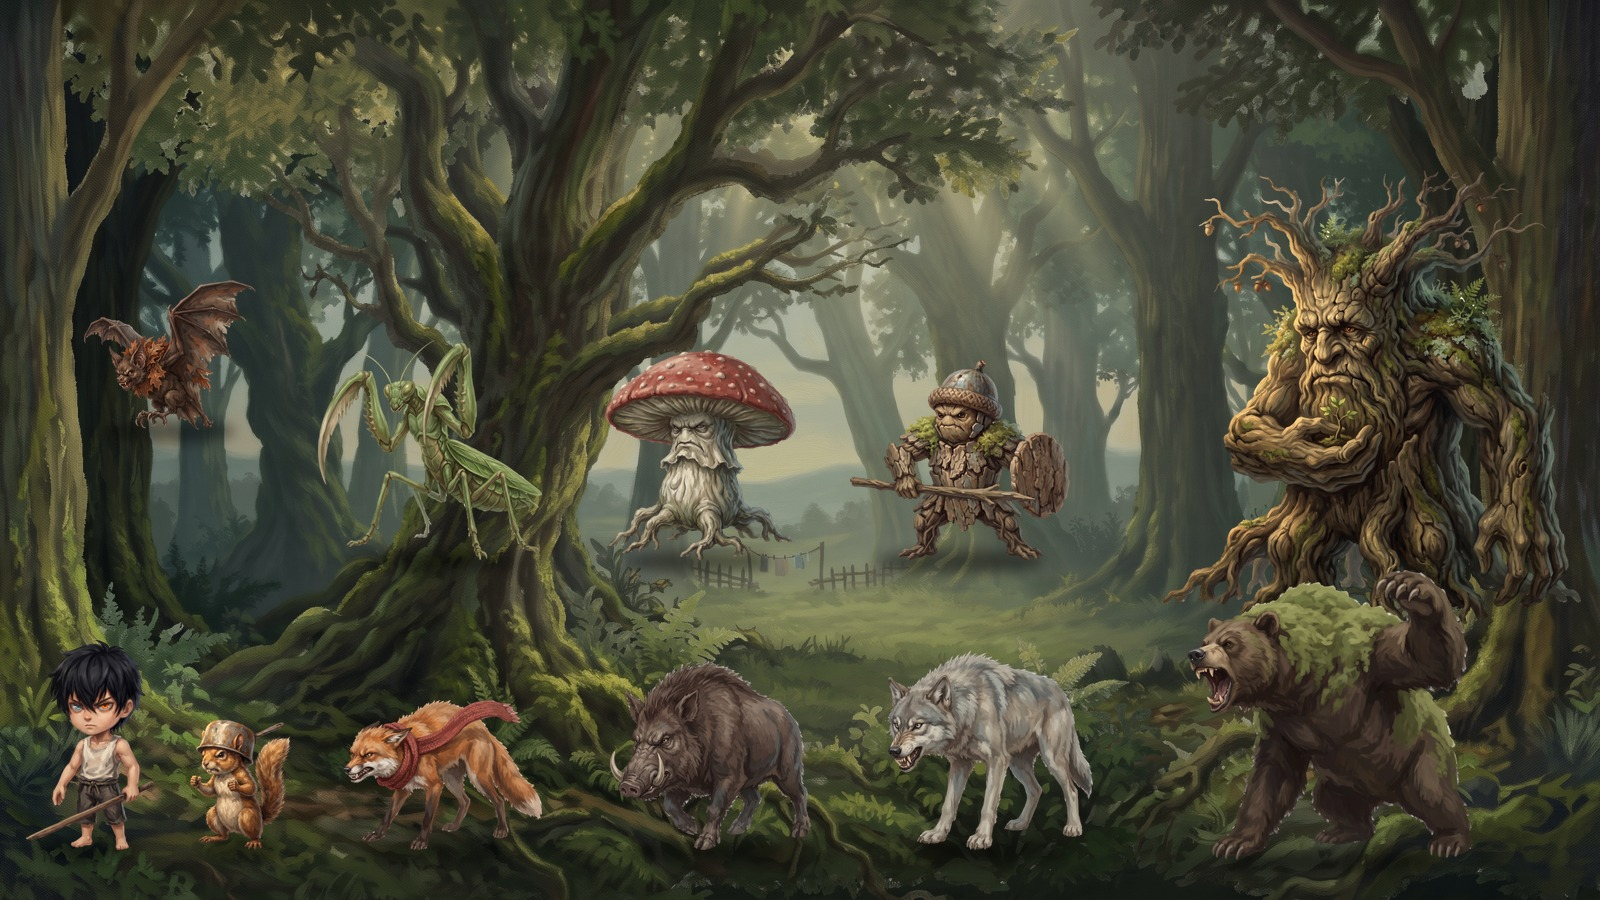
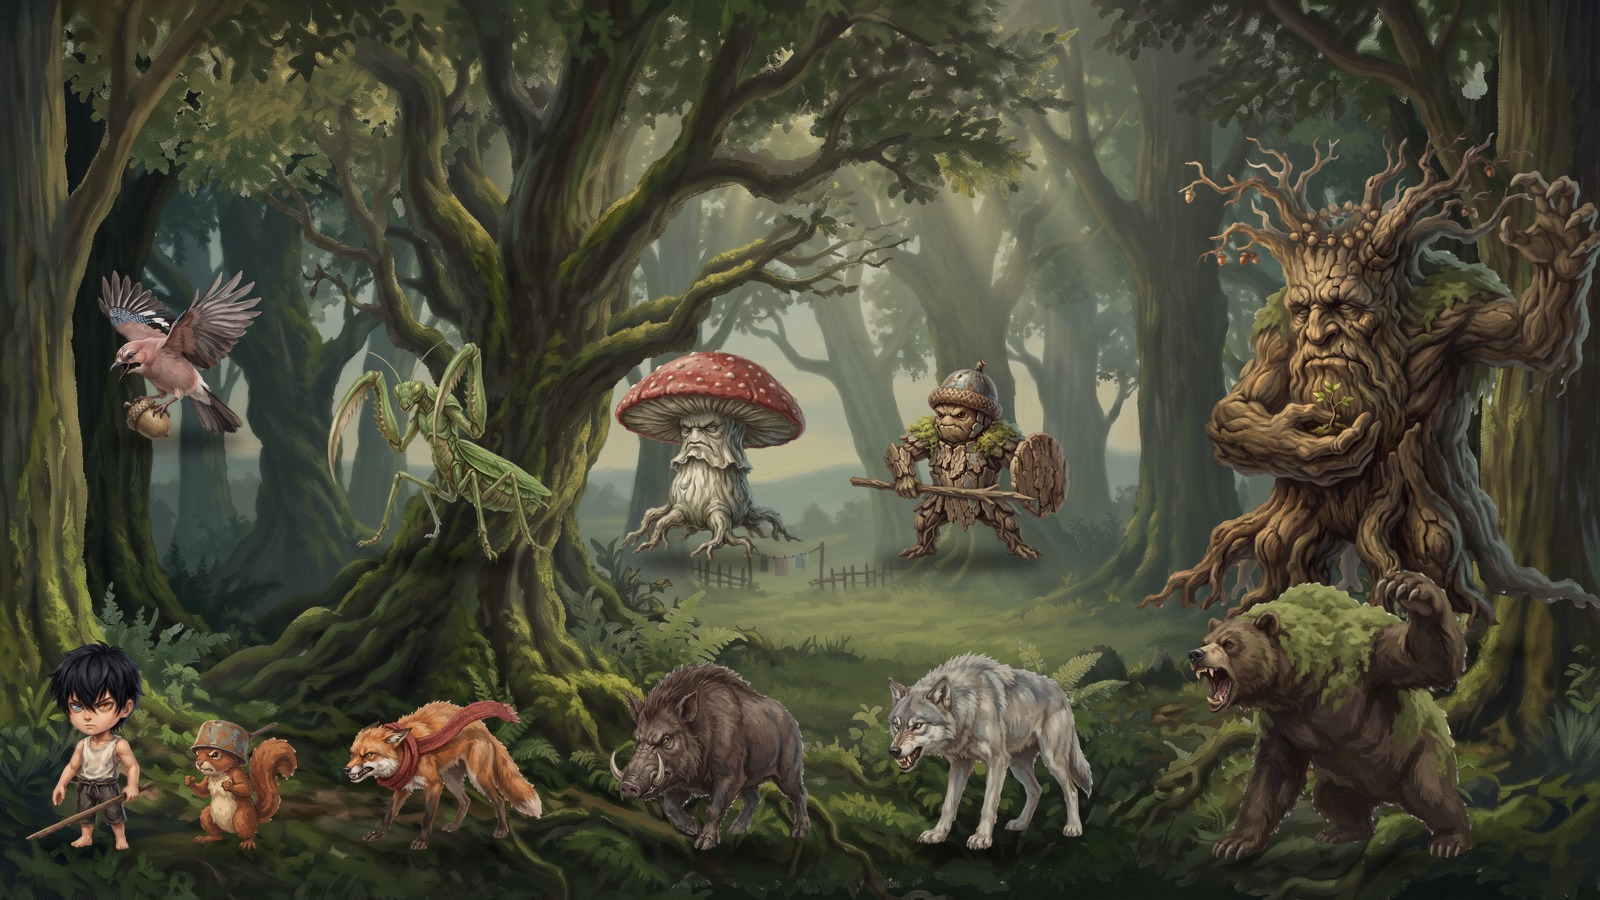
1장: 박쥐를 도토리 어치로 바꾸고 다람쥐와 그룸을 새 기준으로 다시 뽑았다
Claude-Session: https://claude.ai/code/session_019ctizXgKMq2Zc4rqnxPXRD

diff --git a/잊혀진 기사 키우기 세계관/몬스터 도감.md b/잊혀진 기사 키우기 세계관/몬스터 도감.md
@@ -21,7 +21,7 @@
 | 스테이지 | 몬스터 | 도감 글 | 전리품 | 전리품 설명 | 주된 색 |
 |---|---|---|---|---|---|
 | 1-1 | 냄비 쓴 다람쥐 | 가장 약하다. 냄비를 투구처럼 쓰고 표정만 사납다. 이 게임의 얼굴. | 찌그러진 냄비 | 누군가 저녁마다 국을 끓이던 냄비다. 바닥에 눌어붙은 자국이 아직 남아 있다. | 붉은 갈색 털, 녹슨 냄비 |
-| 1-2 | 낙엽 망토 박쥐 | 낙엽을 망토처럼 두르고 날아다닌다. 등불을 보면 덮친다. | 낙엽 망토 | 아이가 소꿉놀이하며 엮은 망토. 솔잎으로 꿰맨 바느질이 삐뚤빼뚤하다. | 밤색 털, 가을 낙엽색 |
+| 1-2 | 도토리 어치 | 제 머리만 한 도토리를 움켜쥐고 날아다닌다. 숲 여기저기에 도토리를 묻어 두고는 어디 묻었는지 잊는다. 날아와 덮친다. | 도토리 주머니 | 어치 둥지에 있던 헝겊 주머니. 겨울에 새들 주려고 아이가 가을 내내 도토리를 모아 두었다. 겨울이 오기 전에 아이가 먼저 사라졌다. | 분홍빛 갈색 깃, 푸른 날개 무늬 |
 | 1-3 | 목도리 여우 | 빨랫줄에서 물어 온 붉은 목도리를 두르고 다닌다. 마르고 날래다. | 붉은 목도리 | 한 코 한 코 손으로 뜬 목도리. 끝에 뜨다 만 자리가 있다. 겨울이 오기 전에 다 떠 주겠다고 했었다. | 주황 털, 바랜 붉은 목도리 |
 | 1-4 | 거대 사마귀 | 몸이 풀잎을 닮았다. 풀숲에서 기다리다 낫발로 내리친다. 한 방이 아프다. | 풀잎 피리 | 사마귀가 앉아 있던 풀잎. 접힌 자국이 있다. 누군가 불다가 두고 간 풀피리였다. | 풀색, 이슬 |
 | 1-5 | 우산 버섯 | 갓을 우산처럼 펴고 느릿느릿 걷는다. 비가 오면 작은 것들이 그 밑에 모인다. 잘 버틴다. | 노란 장화 한 짝 | 버섯이 서 있던 자리에 남은 것. 그 밑에서 비를 긋던 작은 장화. 나머지 한 짝은 아직 어느 집 현관에 놓여 있다. | 붉은 갈색 갓, 흰 대 |
@@ -29,7 +29,7 @@
 | 1-7 | 늑대 | 이를 드러내고 낮게 다가온다. 숲에서 가장 빠르다. 달이 뜨면 마을 쪽을 본다. | 달맞이꽃 목걸이 | 늑대가 물고 다니던, 엮다 만 꽃목걸이. 달이 뜨면 돌아오겠다던 사람을 기다리며 엮던 것이다. | 잿빛 털, 옅은 노랑 꽃 |
 | 1-8 | 나무껍질 병사 | 그룸이 세운 문지기. 나무껍질 갑옷에 굵은 가지를 창처럼 든다. | 나무껍질 방패 | 안쪽에 칼로 새긴 키 재기 눈금이 있다. 맨 위 눈금 옆에 "내년엔 여기까지"라고 적혀 있다. | 마른 나무색, 이끼 |
 | 1-9 | 이끼 등 곰 | 너무 오래 잠들어 등에 이끼가 덮였다. 숲에서 힘이 가장 세다. | 꿀단지 뚜껑 | 곰이 베고 자던 나무 뚜껑. 손때가 반질반질하다. 단지는 어느 집 부엌 선반에 아직 있다. | 검은 갈색 털, 이끼 초록 |
-| 1-10 우두머리 | 나무의 왕 그룸 | 뿌리로 걷는 늙은 참나무. 뿌리로 작은 묘목 하나를 감싸 쥐고 놓지 않는다. | 도토리 왕관 | 숲의 아이들이 놀이 삼아 씌워 준 왕관. 그룸은 그날부터 한 번도 벗지 않았다. | 깊은 나무색, 이끼 초록 |
+| 1-10 우두머리 | 나무의 왕 그룸 | 뿌리로 걷는 늙은 참나무. 한 팔은 내리치려고 치켜들고, 다른 손은 작은 묘목 하나를 가슴에 감싸 쥐고 놓지 않는다. | 도토리 왕관 | 숲의 아이들이 놀이 삼아 씌워 준 왕관. 그룸은 그날부터 한 번도 벗지 않았다. | 깊은 나무색, 이끼 초록 |
 
 - 이 장의 펫: 냄비 다람쥐(첫 펫. 그룸을 쓰러뜨리면 준다), 새끼 여우.
 - 이야기 물건: 1-3의 그루터기에 미로가 숨겨 둔 장난감 나무검. 끝 장면에서 다시 나온다.
